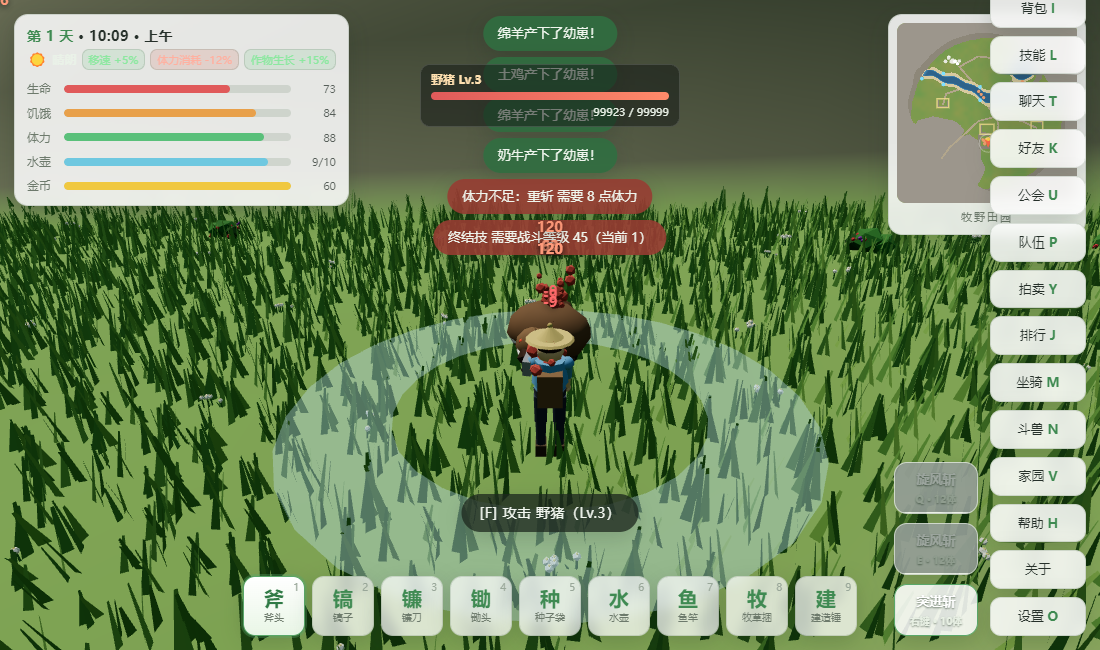
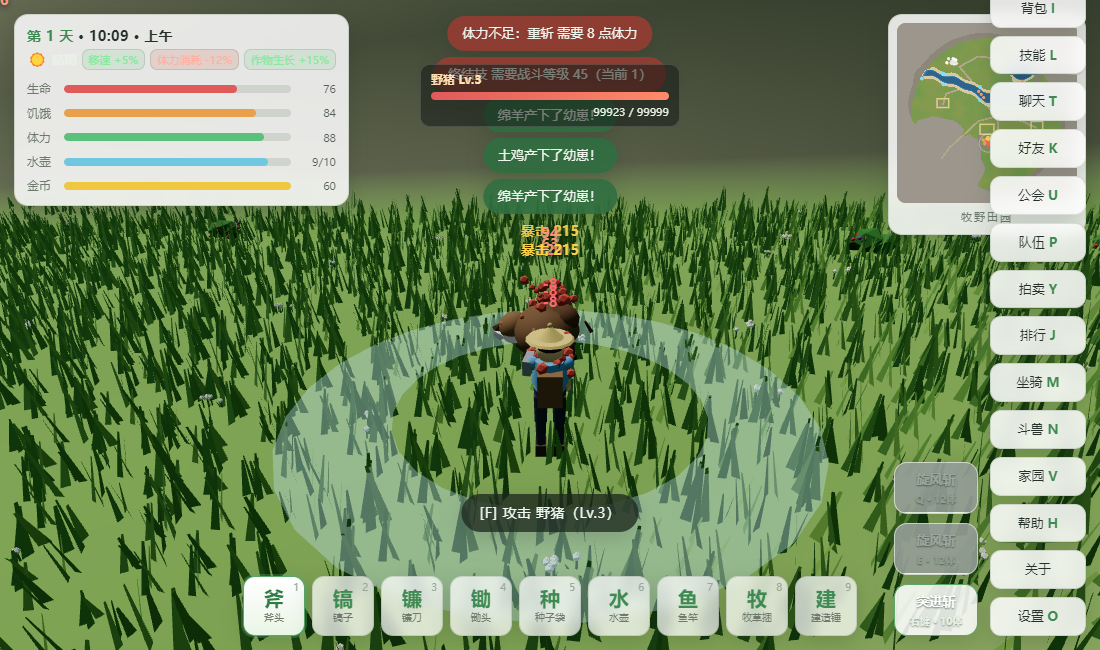
???? Open Farm:?? + ?? APK(????)

diff --git a/farm3d/js/mobile.js b/farm3d/js/mobile.js
@@ -15,48 +15,51 @@
   const F = window.FARM;
 
   /* ---------------- 手机端 UI 适配样式 ----------------
-     #corner 那一列功能按钮在桌上貌不惊人，到手机上十四行会挤爆屏幕 —— 默认收起，点「菜单」展开 */
+     #corner 那一列功能按钮在桌上貌不惊人，到手机上十四行会挤爆屏幕 —— 默认收起，点「菜单」展开
+     所有尺寸乘 var(--ms)（JS 按屏幕短边实时算）：小屏收一收、平板放大一点，
+     加上刘海/手势条的 env(safe-area-inset-*)，全机型自适应 */
   const CSS = `
-html.mobile #topbar{min-width:0;padding:7px 10px}
-html.mobile #clock{font-size:12px}
+html.mobile #topbar{min-width:0;padding:calc(7px*var(--ms,1)) calc(10px*var(--ms,1))}
+html.mobile #clock{font-size:calc(12px*var(--ms,1))}
 html.mobile #vitals{margin-top:5px;gap:3px}
-html.mobile #vstatus,#topbar .vrow{font-size:11px}
-html.mobile #minimap{right:10px;top:10px;padding:6px}
-html.mobile #mm{width:104px;height:104px}
-html.mobile #mm-label{font-size:10px}
-html.mobile #prompt{bottom:104px;font-size:13px;padding:6px 14px}
-html.mobile #nodeinfo{max-width:min(300px,84vw);font-size:12px}
-html.mobile #hotbar{gap:5px;bottom:10px}
-html.mobile .slot{width:50px;height:48px;border-radius:10px}
-html.mobile .slot b{font-size:17px}
-html.mobile #seedbar{bottom:66px}
-html.mobile .cbtn{min-width:106px;padding:11px 14px;font-size:14px}
-html.mobile #corner{display:none;right:10px;bottom:calc(96px + env(safe-area-inset-bottom));
+html.mobile #vstatus,#topbar .vrow{font-size:calc(11px*var(--ms,1))}
+html.mobile #minimap{right:calc(10px*var(--ms,1));top:calc(10px*var(--ms,1));padding:6px}
+html.mobile #mm{width:calc(104px*var(--ms,1));height:calc(104px*var(--ms,1))}
+html.mobile #mm-label{font-size:calc(10px*var(--ms,1))}
+html.mobile #prompt{bottom:calc(104px*var(--ms,1));font-size:calc(13px*var(--ms,1));padding:6px 14px}
+html.mobile #nodeinfo{max-width:min(300px,84vw);font-size:calc(12px*var(--ms,1))}
+html.mobile #hotbar{gap:calc(5px*var(--ms,1));bottom:calc(10px*var(--ms,1))}
+html.mobile .slot{width:calc(50px*var(--ms,1));height:calc(48px*var(--ms,1));border-radius:10px}
+html.mobile .slot b{font-size:calc(17px*var(--ms,1))}
+html.mobile #seedbar{bottom:calc(66px*var(--ms,1))}
+html.mobile .cbtn{min-width:calc(106px*var(--ms,1));padding:calc(11px*var(--ms,1)) calc(14px*var(--ms,1));font-size:calc(14px*var(--ms,1))}
+html.mobile #corner{display:none;right:calc(10px*var(--ms,1));bottom:calc(96px*var(--ms,1) + env(safe-area-inset-bottom));
   max-height:52vh;overflow-y:auto;overscroll-behavior:contain;-webkit-overflow-scrolling:touch;
   padding:6px;border-radius:14px;background:rgba(255,255,255,.55);backdrop-filter:blur(8px)}
 html.mobile.corner-open #corner{display:flex}
 #mtouch{position:absolute;inset:0;z-index:8;pointer-events:none;touch-action:none}
 #mtouch>*{pointer-events:auto;touch-action:none;-webkit-tap-highlight-color:transparent;user-select:none}
-#mjoy{position:absolute;left:calc(16px + env(safe-area-inset-left));bottom:calc(78px + env(safe-area-inset-bottom));
-  width:118px;height:118px;border-radius:50%;background:rgba(255,255,255,.30);border:1px solid rgba(60,90,60,.18);
+#mjoy{position:absolute;left:calc(16px*var(--ms,1) + env(safe-area-inset-left));bottom:calc(78px*var(--ms,1) + env(safe-area-inset-bottom));
+  width:calc(118px*var(--ms,1));height:calc(118px*var(--ms,1));border-radius:50%;background:rgba(255,255,255,.30);border:1px solid rgba(60,90,60,.18);
   box-shadow:0 6px 22px rgba(20,40,25,.16)}
-#mjoy-k{position:absolute;left:50%;top:50%;width:52px;height:52px;margin:-26px 0 0 -26px;border-radius:50%;
+#mjoy-k{position:absolute;left:50%;top:50%;width:calc(52px*var(--ms,1));height:calc(52px*var(--ms,1));
+  margin:calc(-26px*var(--ms,1)) 0 0 calc(-26px*var(--ms,1));border-radius:50%;
   background:rgba(255,255,255,.86);border:1px solid var(--bd);box-shadow:0 4px 14px rgba(20,40,25,.22);
   transition:transform .06s linear}
-#mact{position:absolute;right:calc(14px + env(safe-area-inset-right));bottom:calc(78px + env(safe-area-inset-bottom));
-  display:flex;flex-direction:column-reverse;align-items:flex-end;gap:10px}
+#mact{position:absolute;right:calc(14px*var(--ms,1) + env(safe-area-inset-right));bottom:calc(78px*var(--ms,1) + env(safe-area-inset-bottom));
+  display:flex;flex-direction:column-reverse;align-items:flex-end;gap:calc(10px*var(--ms,1))}
 .mkey{display:flex;flex-direction:column;align-items:center;justify-content:center;gap:0;
   border:1px solid rgba(60,90,60,.18);border-radius:50%;background:rgba(255,255,255,.86);
-  box-shadow:0 6px 22px rgba(20,40,25,.18);color:var(--ink);font-size:13px;line-height:1.1}
-.mkey b{font-size:10px;color:var(--dim);font-weight:400}
-.mkey.big{width:82px;height:82px;font-size:16px}
-.mkey.mid{width:62px;height:62px}
+  box-shadow:0 6px 22px rgba(20,40,25,.18);color:var(--ink);font-size:calc(13px*var(--ms,1));line-height:1.1}
+.mkey b{font-size:calc(10px*var(--ms,1));color:var(--dim);font-weight:400}
+.mkey.big{width:calc(82px*var(--ms,1));height:calc(82px*var(--ms,1));font-size:calc(16px*var(--ms,1))}
+.mkey.mid{width:calc(62px*var(--ms,1));height:calc(62px*var(--ms,1))}
 .mkey.on{background:linear-gradient(180deg,#fff,#e9f6e6);border-color:var(--green);box-shadow:0 0 0 2px rgba(90,168,106,.35),var(--sh)}
-#mmenu{position:absolute;right:calc(14px + env(safe-area-inset-right));top:calc(10px + env(safe-area-inset-top));
-  padding:9px 13px;border-radius:11px;background:var(--glass);border:1px solid var(--bd);
-  box-shadow:var(--sh);font-size:13px;color:var(--ink)}
-#mtip{position:absolute;left:50%;top:calc(10px + env(safe-area-inset-top));transform:translateX(-50%);
-  padding:8px 14px;border-radius:16px;background:rgba(28,40,30,.82);color:#f2f7f0;font-size:12px;
+#mmenu{position:absolute;right:calc(14px*var(--ms,1) + env(safe-area-inset-right));top:calc(10px*var(--ms,1) + env(safe-area-inset-top));
+  padding:calc(9px*var(--ms,1)) calc(13px*var(--ms,1));border-radius:11px;background:var(--glass);border:1px solid var(--bd);
+  box-shadow:var(--sh);font-size:calc(13px*var(--ms,1));color:var(--ink)}
+#mtip{position:absolute;left:50%;top:calc(10px*var(--ms,1) + env(safe-area-inset-top));transform:translateX(-50%);
+  padding:8px 14px;border-radius:16px;background:rgba(28,40,30,.82);color:#f2f7f0;font-size:calc(12px*var(--ms,1));
   max-width:82vw;text-align:center;line-height:1.5}
 #cv{touch-action:none}
 `;
@@ -77,6 +80,26 @@ html.mobile.corner-open #corner{display:flex}
   function build() {
     document.documentElement.classList.add('mobile');
     const st = el('style'); st.textContent = CSS; document.head.appendChild(st);
+
+    /* ---------------- 全机型自适应 ----------------
+       缩放系数 = 短边 / 420（参考机型 420dp），钳在 0.78~1.35：
+       5 寸小屏 → 收缩不挡视野；平板/折叠屏 → 放大好按；超矮屏（带手势条的 21:9）再收一档 */
+    const fit = () => {
+      let s = Math.min(innerWidth, innerHeight) / 420;
+      s = Math.max(0.78, Math.min(1.35, s));
+      if (innerHeight < 340) s *= 0.92;
+      document.documentElement.style.setProperty('--ms', s.toFixed(3));
+    };
+    fit();
+    addEventListener('resize', fit);
+    addEventListener('orientationchange', fit);
+    if (window.visualViewport) visualViewport.addEventListener('resize', fit);
+    /* ponytail: 模拟器/部分 WebView 改视口不派发 resize —— 每帧比一眼，变了才重算（开销可忽略） */
+    let lw = innerWidth, lh = innerHeight;
+    (function tickFit() {
+      if (innerWidth !== lw || innerHeight !== lh) { lw = innerWidth; lh = innerHeight; fit(); }
+      requestAnimationFrame(tickFit);
+    })();
 
     const root = el('div'); root.id = 'mtouch';
     const joy = el('div'); joy.id = 'mjoy';
@@ -128,8 +151,9 @@ html.mobile.corner-open #corner{display:flex}
 
     document.body.appendChild(root);
 
-    /* ---------------- 摇杆 ---------------- */
-    const R = 44;
+    /* ---------------- 摇杆 ----------------
+       摇杆半径跟着 --ms 缩放走：每次按下时实测，别用写死的 44 */
+    let R = 44;
     let joyId = null, jcx = 0, jcy = 0;
     const setAxis = (x, y) => {
       if (!x && !y) { if (F.Input) F.Input.axis = null; return; }
@@ -138,6 +162,7 @@ html.mobile.corner-open #corner{display:flex}
     const joyDown = e => {
       if (joyId !== null) return;
       joyId = e.pointerId;
+      R = Math.max(20, joy.clientWidth / 2 - knob.clientWidth / 2);
       const b = joy.getBoundingClientRect();
       jcx = b.left + b.width / 2; jcy = b.top + b.height / 2;
       joy.setPointerCapture && joy.setPointerCapture(e.pointerId);

diff --git a/farm3d/_t3.js b/farm3d/_t3.js
@@ -1,0 +1,22 @@
+/* 一次性探针：视口变化时 fit() 是否重跑 */
+const path = require('path');
+const D = path.join(__dirname, '..', '_tools', 'x', 'node-v20.18.0-win-x64', 'node_modules', 'playwright');
+const { chromium, devices } = require(D);
+(async () => {
+  const browser = await chromium.launch({ args: ['--use-gl=angle', '--use-angle=swiftshader', '--enable-unsafe-swiftshader', '--no-sandbox'] });
+  const ctx = await browser.newContext(Object.assign({}, devices['Pixel 5 landscape'], { hasTouch: true, isMobile: true }));
+  const page = await ctx.newPage();
+  await page.goto('file:///' + path.join(__dirname, '..', 'farm3d-android', 'app', 'src', 'main', 'assets', 'm.html').replace(/\\/g, '/'));
+  await page.waitForFunction(() => window.FARM && document.getElementById('loading') && document.getElementById('loading').style.display === 'none', { timeout: 120000 });
+  await page.evaluate(() => { window.__n = 0; addEventListener('resize', () => window.__n++); });
+  const snap = async tag => console.log(tag, JSON.stringify(await page.evaluate(() => ({
+    iw: innerWidth, ih: innerHeight, ms: document.documentElement.style.getPropertyValue('--ms'),
+    n: window.__n, vv: visualViewport ? [visualViewport.width, visualViewport.height] : null,
+  }))));
+  await snap('初始');
+  await page.setViewportSize({ width: 640, height: 320 });
+  await page.waitForTimeout(400); await snap('640x320');
+  await page.setViewportSize({ width: 1280, height: 800 });
+  await page.waitForTimeout(400); await snap('1280x800');
+  await browser.close();
+})();

diff --git a/farm3d/_e2e_mobile.js b/farm3d/_e2e_mobile.js
@@ -155,6 +155,26 @@ const ASSETS = path.join(__dirname, '..', 'farm3d-android', 'app', 'src', 'main'
   await page.screenshot({ path: path.join(__dirname, 'production', 'qa', 'evidence', 'mobile-about.png') });
   await page.evaluate(() => window.FARM.UI.closePanel());
 
+  /* 6. UI 全机型自适应：小屏收缩、平板放大，摇杆直径跟 --ms 走，测完还原视口 */
+  const BASE = { width: 802, height: 293 };
+  await page.setViewportSize({ width: 640, height: 320 });
+  await page.waitForTimeout(350);
+  const small = await page.evaluate(() => ({
+    ms: parseFloat(getComputedStyle(document.documentElement).getPropertyValue('--ms')),
+    joy: document.getElementById('mjoy').clientWidth,
+  }));
+  await page.setViewportSize({ width: 1280, height: 800 });
+  await page.waitForTimeout(350);
+  const big = await page.evaluate(() => ({
+    ms: parseFloat(getComputedStyle(document.documentElement).getPropertyValue('--ms')),
+    joy: document.getElementById('mjoy').clientWidth,
+  }));
+  await page.setViewportSize(BASE);
+  await page.waitForTimeout(350);
+  console.log('   自适应 =', JSON.stringify({ small, big }));
+  ok('UI 全机型自适应：小屏 ms<1、平板 ms>1，摇杆直径随缩放变化',
+    small.ms < 1 && big.ms > 1 && small.joy < big.joy);
+
   await page.screenshot({ path: path.join(__dirname, 'production', 'qa', 'evidence', 'mobile-touch.png') });
   ok('无 JS 错误', errs.length === 0);
   if (errs.length) console.log('   错误：', errs.slice(0, 5).join(' | '));

diff --git a/farm3d/js/main.js b/farm3d/js/main.js
@@ -420,8 +420,13 @@
     B.add('dock', 96, -178, 1.9, true);
   }
 
-  /* 手机 / 平板（粗指针设备）：一次判定，后面几处降档都用得着 */
-  const COARSE = (F.coarseDevice = (navigator.maxTouchPoints > 1) || (window.matchMedia && matchMedia('(pointer: coarse)').matches));
+  /* 手机 / 平板（粗指针设备）：一次判定，后面几处降档都用得着。
+     ponytail: 必须「没有精确指针」才算手机 —— 触屏笔记本/一体机 maxTouchPoints>1，
+     旧判定会把它们误伤成手机档：草锁低档、阴影默认关、渲染比压到 1.25 */
+  const COARSE = (F.coarseDevice = !!(
+    (window.matchMedia && matchMedia('(pointer: coarse)').matches || navigator.maxTouchPoints > 1) &&
+    !(window.matchMedia && matchMedia('(pointer: fine)').matches)
+  ));
 
   /* ------------------------- 启动 ------------------------- */
   const TASKS = [
